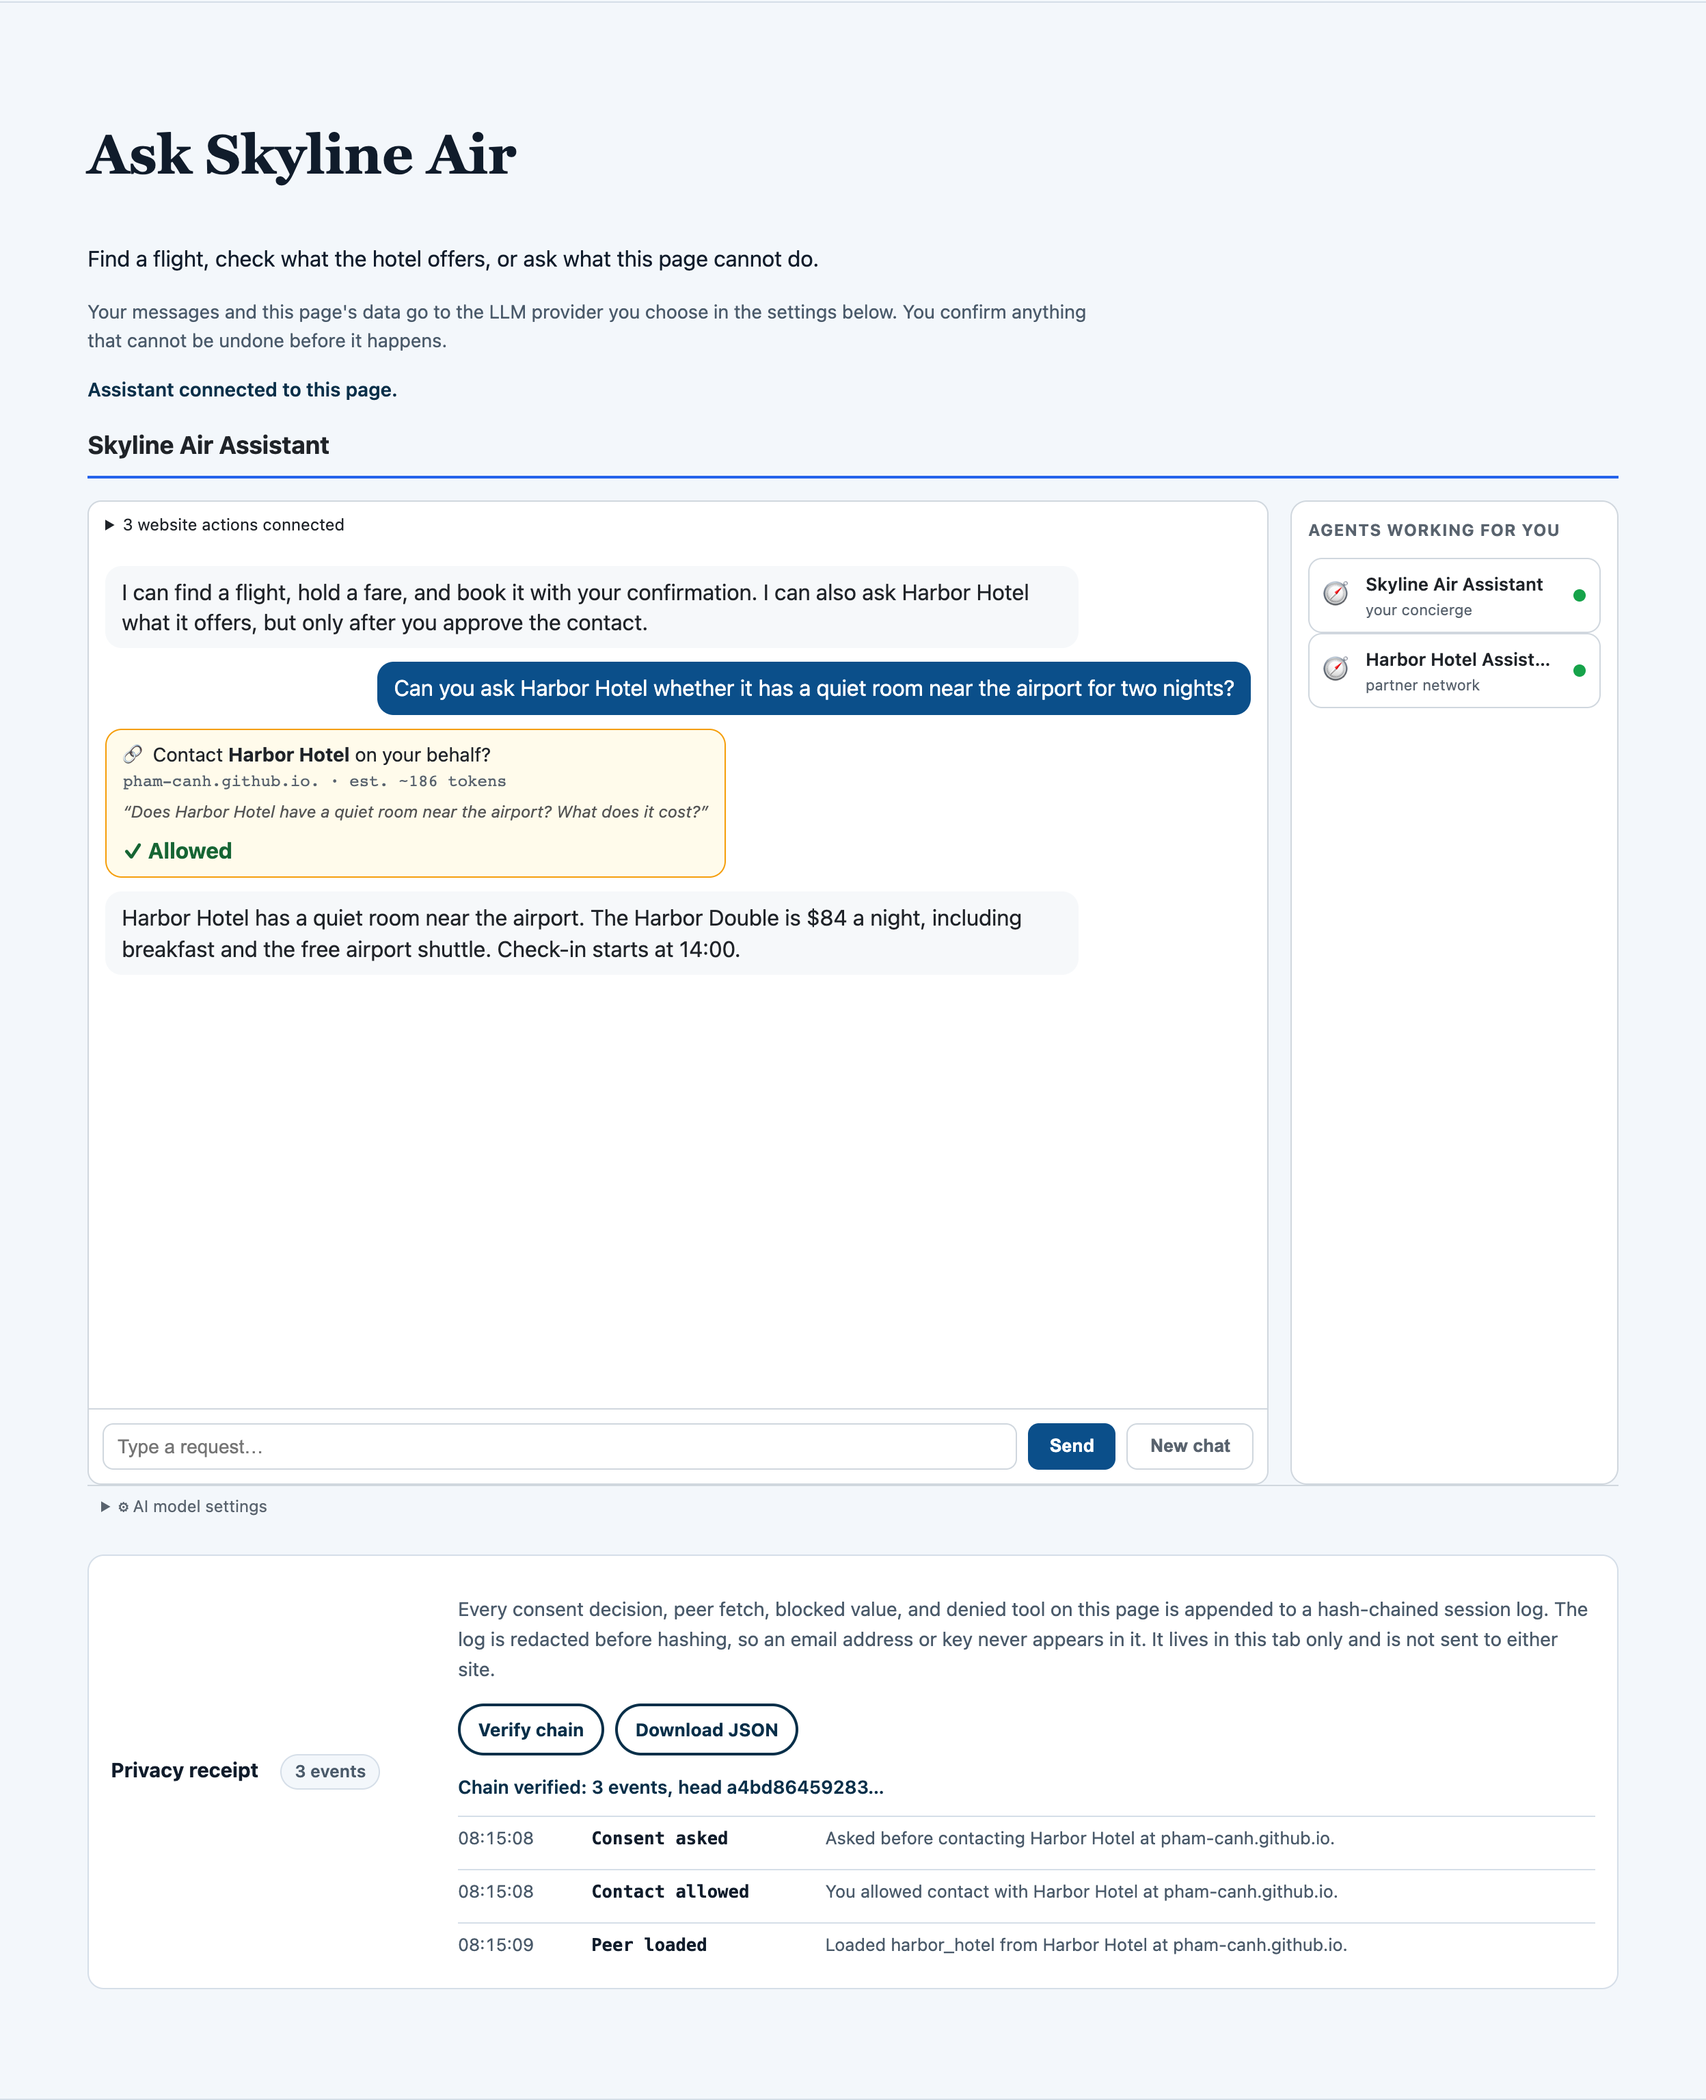
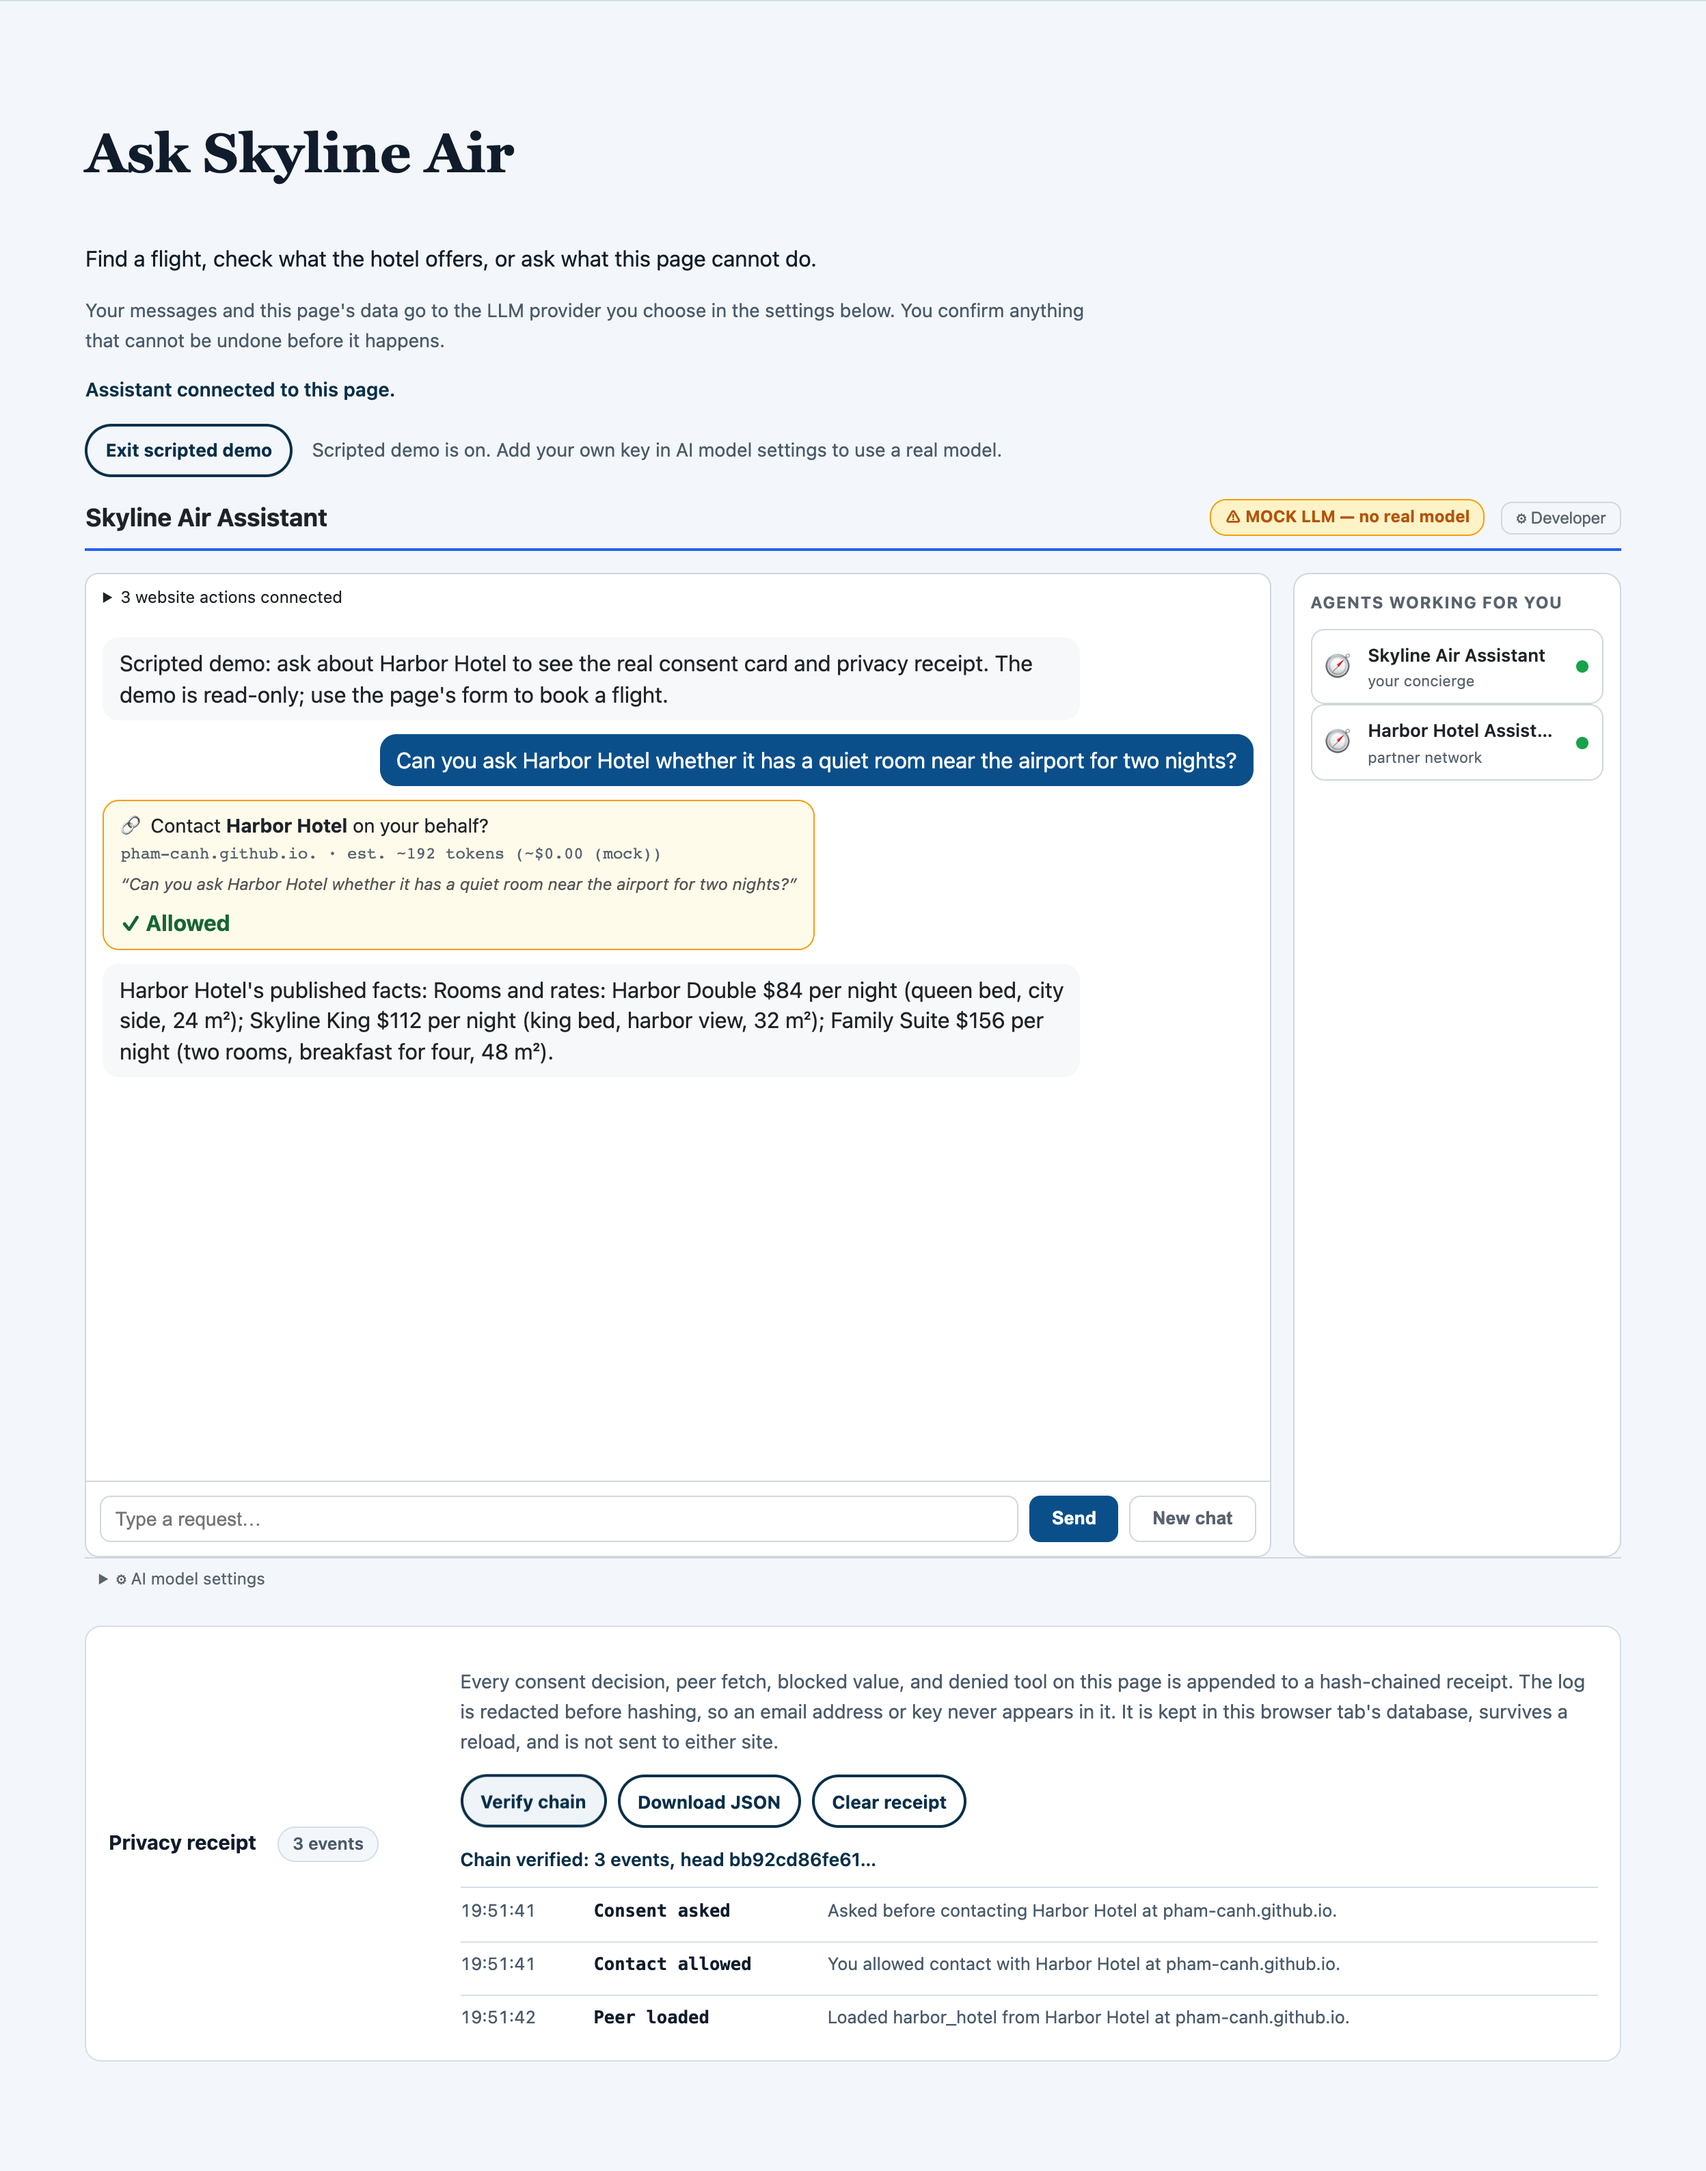
Refresh the privacy-receipt screenshot from the live demo
Capture the current assistant and receipt with the keyless demo badge, verified chain, and Clear receipt button. Update the captions to match the events shown.

diff --git a/docs/DEVPOST.md b/docs/DEVPOST.md
@@ -122,7 +122,7 @@ Upload the screenshots in this order; each caption is under 140 characters.
 1. `docs/screenshots/airline-hero.png` — Skyline Air landing page: book a flight, then ask the hotel — with a visible consent boundary.
 2. `docs/screenshots/consent.png` — The consent card shows the exact hotel origin, purpose, and request before any cross-origin fetch.
 3. `docs/screenshots/assistant-answer.png` — After Allow: the hotel network runs in the browser and returns a room answer; only the request text crossed.
-4. `docs/screenshots/privacy-receipt.png` — The Privacy receipt lists the consent, the peer fetch, and any blocked value; the hash chain verifies, survives a reload, and exports as JSON.
+4. `docs/screenshots/privacy-receipt.png` — The Privacy receipt from the keyless demo lists the consent, the peer fetch, and any blocked value; the hash chain verifies, survives a reload, and exports as JSON.
 5. `docs/screenshots/airline-booking.png` — A manual booking: pick a flight, enter the passenger, and confirm; the demo takes no payment.
 6. `docs/screenshots/hotel-mobile.png` — Harbor Hotel on its own origin at a phone width: separate manifest, rooms, and policies.
 

diff --git a/docs/DEMO.md b/docs/DEMO.md
@@ -86,7 +86,7 @@ The browser pass uses a scripted SSE router, not a live provider, so it proves t
 - `docs/screenshots/airline-booking.png` — a selected flight and manual booking.
 - `docs/screenshots/consent.png` — the consent card before any hotel request.
 - `docs/screenshots/assistant-answer.png` — the approved cross-site answer.
-- `docs/screenshots/privacy-receipt.png` — the receipt with the consent, peer fetch, and blocked value.
+- `docs/screenshots/privacy-receipt.png` — the keyless demo's receipt with the consent, allow, peer load, and verified chain; the same panel records blocked values and peer failures.
 - `docs/screenshots/hotel-mobile.png` — the hotel at a phone width.
 
 ## Publishing
